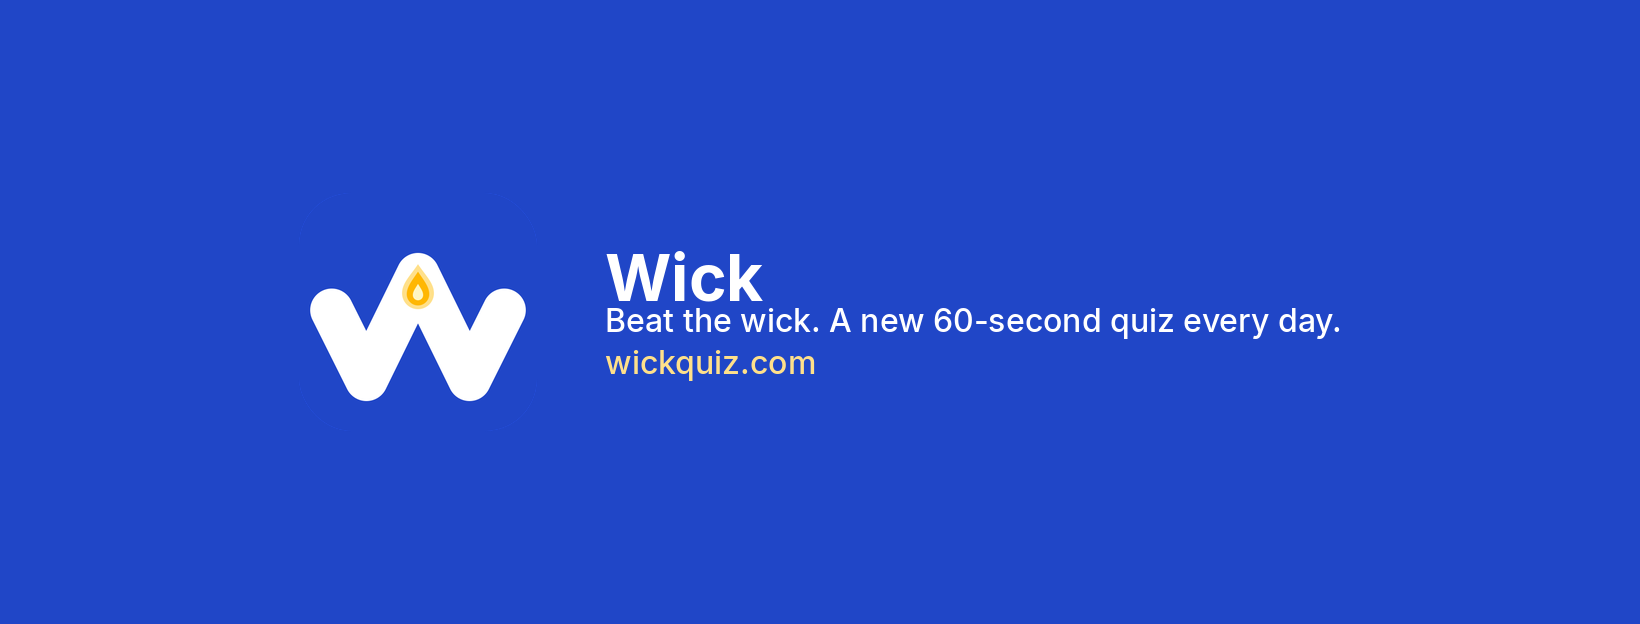
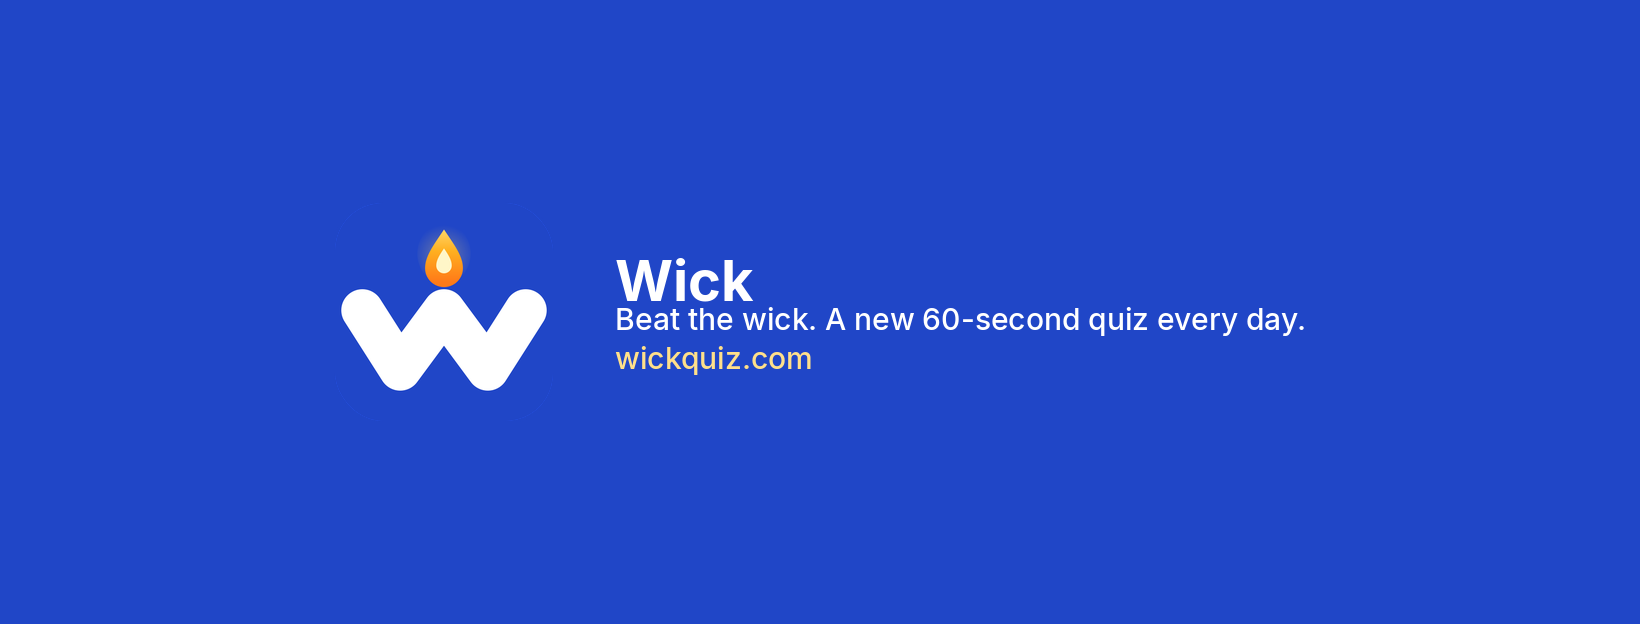
Lift the Wick flame above the W and add 2 seconds per correct answer.
The flame now sits on the middle peak with a clear gap, and every derived icon and the clock bonus use that mark and the longer bonus.

Changed region(s): [[0.3732, 0.3958, 0.8085, 0.609], [0.1866, 0.3654, 0.3421, 0.6394]]

diff --git a/about.html b/about.html
@@ -20,10 +20,10 @@
     <main id="main" class="prose" tabindex="-1">
       <h1>About Wick and terms</h1>
       <p>Wick is a free daily general knowledge quiz. Each UK day, from midnight to midnight in London, everyone gets the same 100 questions. You have 1 minute, and one scored attempt. After that you can practise the same questions. Practice is not scored.</p>
-      <p>A candle burns with the 60-second clock. On a phone it sits above the question. On a larger screen it stands beside the questions. Each correct answer adds half a second, and the candle grows back a touch with the clock. The round ends when the flame goes out, you finish the 100, or you tap End game. The score still stops at 100 questions.</p>
+      <p>A candle burns with the 60-second clock. On a phone it sits above the question. On a larger screen it stands beside the questions. Each correct answer adds 2 seconds, and the candle grows back with the clock. The round ends when the flame goes out, you finish the 100, or you tap End game. The score still stops at 100 questions.</p>
       <p>It works as ordinary files in the browser. It does not need an account or a build step. After a scored daily game, Wick can send the day, how many you got right, and a random device ID to Supabase so it can show how you compare. Practice is not sent. The <a href="privacy.html">privacy and cookie notice</a> explains that storage.</p>
       <h2>How to play</h2>
-      <p>Each question has four answers. Tap one, or press 1, 2, 3, or 4. A right answer adds half a second and moves on at once. A wrong answer shows the right one, adds no time, and locks the buttons for 2 seconds, while the clock and the candle keep burning. That pause applies in the daily game and in practice.</p>
+      <p>Each question has four answers. Tap one, or press 1, 2, 3, or 4. A right answer adds 2 seconds and moves on at once. A wrong answer shows the right one, adds no time, and locks the buttons for 2 seconds, while the clock and the candle keep burning. That pause applies in the daily game and in practice.</p>
       <h2>Scoring</h2>
       <ul>
         <li>First correct answer in a row: 100 points, marked GOT IT.</li>

diff --git a/game.js b/game.js
@@ -2,7 +2,7 @@
   "use strict";
 
   var DURATION_MS = 60 * 1000;
-  var TIME_BONUS_MS = 500;
+  var TIME_BONUS_MS = 2000;
   var SHARE_URL = "https://wickquiz.com";
   var STREAK_MARKS = [3, 5, 10, 15, 20, 25];
   var ROUND_SIZE = 100;
@@ -252,7 +252,7 @@
 
   function showTimePop() {
     if (!timePop) return;
-    timePop.textContent = "+0.5s";
+    timePop.textContent = "+2s";
     timePop.classList.remove("is-show");
     void timePop.offsetWidth;
     timePop.classList.add("is-show");
@@ -432,7 +432,7 @@
           try { navigator.vibrate([12, 24, 12]); } catch (err) {}
         }
       }
-      say("Correct. " + label + ". Plus " + pts + " points. Half a second added. Streak " + streak + ".");
+      say("Correct. " + label + ". Plus " + pts + " points. Two seconds added. Streak " + streak + ".");
       blip([
         { freq: 523 + heatFor(streak) * 20, dur: 0.09, gain: 0.05 },
         { freq: 659 + heatFor(streak) * 24, dur: 0.12, gain: 0.05, at: 0.08 }

diff --git a/index.html b/index.html
@@ -56,7 +56,7 @@
           <p>Everyone gets the same 100 today. A new Wick starts at midnight, UK time. You get one scored go.</p>
           <ul class="rules">
             <li>Four answers. Tap one, or press 1, 2, 3, or 4.</li>
-            <li>A correct answer is 100 points, adds half a second to the clock, and builds a streak up to 250 points.</li>
+            <li>A correct answer is 100 points, adds 2 seconds to the clock, and builds a streak up to 250 points.</li>
             <li>A miss scores nothing and adds no time. It shows the right answer and locks the buttons for 2 seconds. The clock and the candle keep going.</li>
           <li>The answer streak goes back to zero after a miss. Days played in a row earn badges.</li>
           </ul>

diff --git a/README.md b/README.md
@@ -1,6 +1,6 @@
 # Wick
 
-Wick is a daily one-minute quiz. Everyone gets the same 100 questions until midnight UK time.
+Wick is a daily one-minute quiz. Everyone gets the same 100 questions until midnight UK time. A correct answer adds 2 seconds to the clock. A wrong answer does not.
 
 Published with GitHub Pages at [wickquiz.com](https://wickquiz.com).
 
